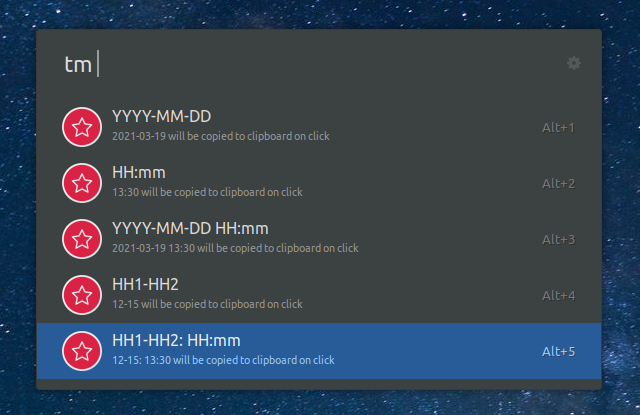
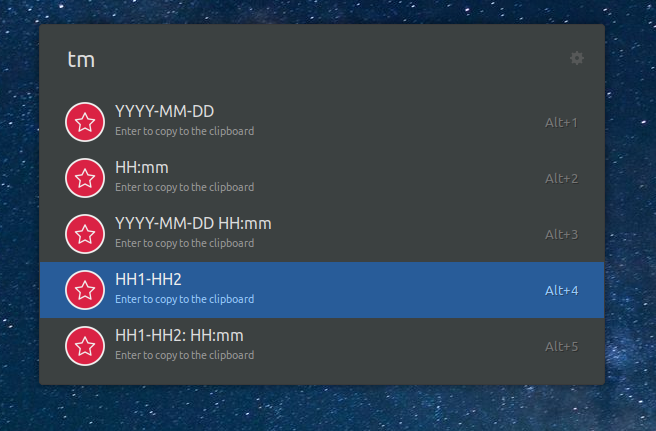
update description

diff --git a/main.py b/main.py
@@ -27,18 +27,18 @@ class KeywordQueryEventListener(EventListener):
         # print('{0:%Y-%m-%d}'.format(datetime.datetime.now()))
         items.append(ExtensionResultItem(icon='images/icon.png',
                                          name='YYYY-MM-DD',
-                                         description='{0:%Y-%m-%d} will be copied to clipboard on click'.format(datetime.datetime.now()),
+                                         description='Enter to copy to the clipboard',
                                          on_enter=CopyToClipboardAction('{0:%Y-%m-%d}'.format(datetime.datetime.now()))))
 
         items.append(ExtensionResultItem(icon='images/icon.png',
                                          name='HH:mm',
-                                         description='{0:%H:%M} will be copied to clipboard on click'.format(datetime.datetime.now()),
+                                         description='Enter to copy to the clipboard',
                                          on_enter=CopyToClipboardAction(
                                              '{0:%H:%M}'.format(datetime.datetime.now()))))
 
         items.append(ExtensionResultItem(icon='images/icon.png',
                                          name='YYYY-MM-DD HH:mm',
-                                         description='{0:%Y-%m-%d %H:%M} will be copied to clipboard on click'.format(datetime.datetime.now()),
+                                         description='Enter to copy to the clipboard',
                                          on_enter=CopyToClipboardAction(
                                              '{0:%Y-%m-%d %H:%M}'.format(datetime.datetime.now()))))
 
@@ -56,13 +56,13 @@ class KeywordQueryEventListener(EventListener):
                 break
         items.append(ExtensionResultItem(icon='images/icon.png',
                                          name='HH1-HH2',
-                                         description=current_time_interval + " will be copied to clipboard on click",
+                                         description='Enter to copy to the clipboard',
                                          on_enter=CopyToClipboardAction(
                                              current_time_interval)))
 
         items.append(ExtensionResultItem(icon='images/icon.png',
                                          name='HH1-HH2: HH:mm',
-                                         description='%s: %s' % (current_time_interval,'{0:%H:%M} will be copied to clipboard on click'.format(datetime.datetime.now())),
+                                         description='Enter to copy to the clipboard',
                                          on_enter=CopyToClipboardAction(
                                              '%s: %s' % (current_time_interval,'{0:%H:%M}'.format(datetime.datetime.now())))))
         
